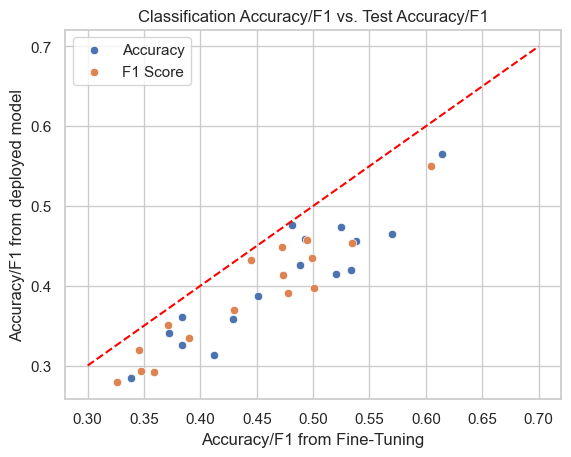
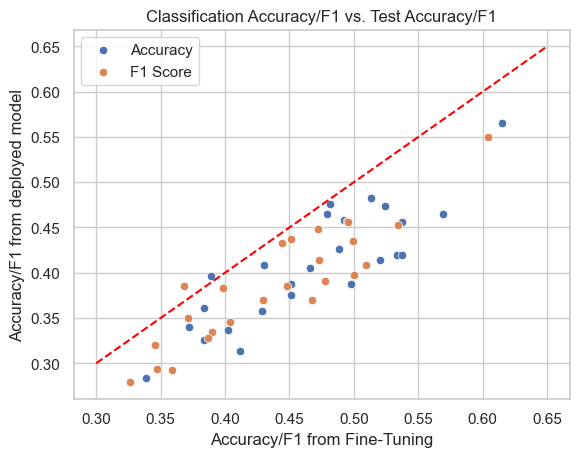
snap

diff --git a/src/save_model/save_model.py b/src/save_model/save_model.py
@@ -6,12 +6,8 @@ import argparse
 import pandas as pd
 import yaml, os
 import numpy as np
+import evaluate, os
 
-parser = argparse.ArgumentParser()
-parser.add_argument("--deployment", default="../../data/5deployment")
-parser.add_argument("--model", default="../../data/6model/")
-parser.add_argument("--test_data", default=None)
-args = parser.parse_args()
 
 def load_yaml(filename):
    with open(filename, encoding='utf-8') as fh:
@@ -32,24 +28,66 @@ def empty_folder(path):
       for d in dirs:
           shutil.rmtree(os.path.join(root, d))
          
-def save_pyfunc_model(deployment: str, path: str):
+def save_pyfunc_model(deployment: str, path: str, model_input: pd.DataFrame, model_output: np.array):
   artifacts = {
-    'deployment': deployment
+    'deployment': deployment,
   }
   model = OpenAIModel()
 
-  df = DataFrame({"text": ["foo", "bar", "baz"]})
-  signature = mlflow.models.infer_signature(model_input=df, model_output=np.array([3,4,5]))
+  signature = mlflow.models.infer_signature(model_input=model_input, model_output=model_output)
 
   # need to empty the folder first
   empty_folder(path)
-  
+
   mlflow.pyfunc.save_model(path, python_model=model, artifacts=artifacts,
-    code_path=['openai_model.py'], conda_env='conda.yml', signature=signature)
+    code_path=model.source_paths(), conda_env=model.conda_path(), signature=signature)
 
-save_pyfunc_model(args.deployment + "/MLArtifact.yaml", args.model)
+def calculate_metrics(references, predictions):
+  print("Calculating metrics")
+  f1 = evaluate.load("f1").compute(references=references, predictions=predictions, average='weighted')
+  accuracy = evaluate.load("accuracy").compute(references=references, predictions=predictions)
+  precision = evaluate.load("precision").compute(references=references, predictions=predictions, average='weighted')
+  recall = evaluate.load("recall").compute(references=references, predictions=predictions, average='weighted')
+  # merge the dicts
+  metrics = {**f1, **accuracy, **precision, **recall}
+  metrics = {"test_" + k: v for k, v in metrics.items()}
+  return metrics
 
-if not args.test_data is None:
-  df = pd.read_csv(args.test_data)
-  model = mlflow.pyfunc.load_model(args.model)
-  print(model.predict(df[:27]))
+def save_and_score(deployment, model_path, test_data, prompt_column, completion_column):
+  
+  df = pd.read_csv(test_data)
+  prompt = df[[prompt_column]]
+  completion = np.array(df[completion_column])
+
+  save_pyfunc_model(deployment, model_path, prompt, completion)
+  
+  model = mlflow.pyfunc.load_model(model_path)
+  predicted = model.predict(prompt)
+  deployment_data = load_yaml(deployment)
+  deployment_id = deployment_data['id']
+  model_id = deployment_data['model']
+  metrics = calculate_metrics(completion, predicted)
+  metrics = {**metrics, 'deployment_id': deployment_id, 'model_id': model_id}
+  return metrics
+
+
+if __name__ == "__main__":
+  print(os.environ["FOO"])
+  parser = argparse.ArgumentParser()
+  parser.add_argument("--deployment", default="data/5deployment")
+  parser.add_argument("--model", default="data/6model/")
+  parser.add_argument("--test_data", default="data/1raw/yelp_test.csv")
+  parser.add_argument("--prompt_column", default="text")
+  parser.add_argument("--completion_column", default="stars")
+  parser.add_argument("--metrics", default="data/6stats/metrics.yaml")
+  args = parser.parse_args()
+  test_data = pd.DataFrame(pd.read_csv(args.test_data))
+
+  metrics = save_and_score(deployment=args.deployment + "/MLArtifact.yaml", 
+                            model_path=args.model, 
+                            test_data=args.test_data, 
+                            prompt_column=args.prompt_column,
+                            completion_column=args.completion_column)
+
+  print(metrics)
+  save_yaml(metrics, args.metrics)

diff --git a/src/save_model/openai_model.py b/src/save_model/openai_model.py
@@ -1,6 +1,7 @@
 import requests, os
 import mlflow, yaml
 import pandas as pd
+import time
 
 def load_yaml(filename):
   with open(filename, encoding='utf-8') as fh:
@@ -45,27 +46,38 @@ class OpenAIModel(mlflow.pyfunc.PythonModel):
 
   def call_oai_endpoint(self, context, model_input: pd.DataFrame):
     payload = {
-      "prompt": list(model_input.prompt.values)
-    }
+      "prompt": list(model_input.prompt.values),
+      "max_tokens": 5,
+      "temperature": 0,
+      "top_p": 0,
+      "frequency_penalty": 0
+    }    
 
-    # print(payload)
-    print(".", end="")
-    
-    r = requests.post(self.url,
-      headers={
-        "api-key": self.api_key,
-        "Content-Type": "application/json"
-      },
-      json = payload
-    )
-    data = r.json()
-    # print("DEBUG: ", data)
-    # print("\n\n\n")
-    if "error" in data:
-      print(data)
-      raise Exception(data['error']['message'])
+    while True:
+      print(f"sending {len(model_input)} items to url {self.url}")
+
+      r = requests.post(self.url,
+        headers={
+          "api-key": self.api_key,
+          "Content-Type": "application/json"
+        },
+        json = payload
+      )
+      data = r.json()
+
+      if "error" in data:
+        print(data)
+        if (data['error']['code'] == 'DeploymentNotReady'):
+          print("Deployment not ready, waiting 10 seconds")
+          time.sleep(10)
+        else:
+          raise Exception(data['error']['message'])
+      else:
+        break
+
+    print("DEBUG: ", data)
     return [row['text'] for row in data['choices']]
-
+   
   def predict(self, context, model_input: pd.DataFrame):
     ## apply to prompt modifications, in this case add "\n\n###\n\n'    
     df = model_input
